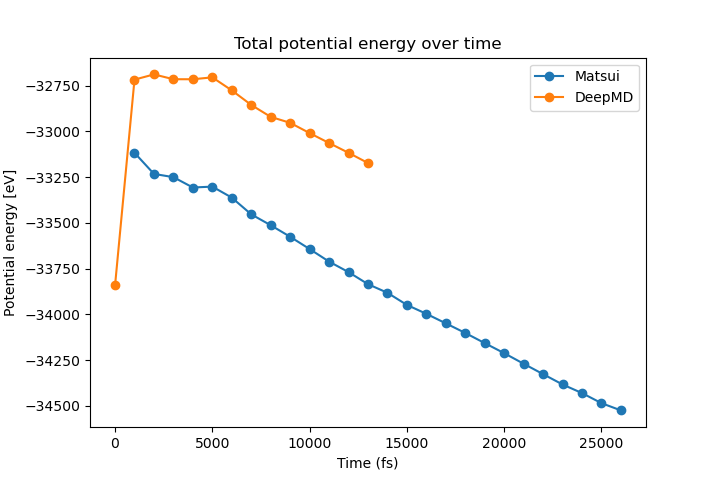
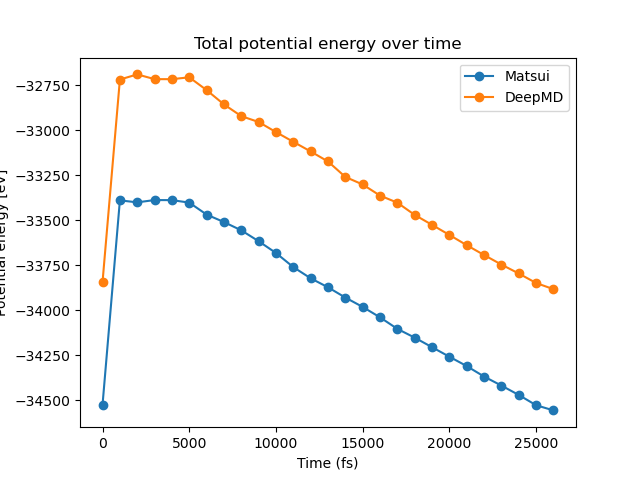
added average rdf and adf functions

diff --git a/src/python/structure_analysis.py b/src/python/structure_analysis.py
@@ -5,7 +5,7 @@ import convert_units as cu
 
 def get_data(filename: str, skip_r=9):
     data = pd.read_table(filename, on_bad_lines="skip", comment="I", skiprows=skip_r, delimiter=" ",
-                         names=["atom_nr", "type", "q", "x", "y", "z"]).dropna()  # .reset_index(drop=True)
+                         names=["atom_nr", "type", "x", "y", "z"]).dropna()  # .reset_index(drop=True)
     x = np.asarray(data["x"])
     y = np.asarray(data["y"])
     z = np.asarray(data["z"])
@@ -455,7 +455,7 @@ def calc_angle(index_matrix, dr):
     return angle
 
 
-def calc_rdf(dr, name_array, bz=1, max_r=7):
+def calc_rdf(dr, name_array, bz=0.05, max_r=7):
     boxX = boxY = boxZ = 31.82
     n = int((max_r+bz)//bz)+1
     alal = np.zeros(n)
@@ -544,28 +544,128 @@ def get_angles(dr, name_array, cutoffs, bz=1):
 
     return alalal, aloal, oalo, ooo, angle_ticks
 
+def calc_avg_adf(trajectory, filename):
+    dr, name_array = get_data(trajectory)
+    cutoffs = [4, 2.5, 3.4]
+    bz = 1
+    n = int(180//bz)+1
+    frames = dr.shape[1]
+
+    #initialize arrays
+    alalal_count = np.zeros(n)
+    aloal_count = np.zeros(n)
+    oalo_count = np.zeros(n)
+    ooo_count = np.zeros(n)
+    alalal = np.zeros(n)
+    aloal= np.zeros(n)
+    oalo = np.zeros(n)
+    ooo = np.zeros(n)
+
+    for frame in range(frames):
+        alalal_f, aloal_f, oalo_f, ooo_f, angle_ticks = get_angles(dr[:, frame], name_array[:, frame], cutoffs, bz=5)
+
+        alalal += alalal_f
+        aloal += aloal_f
+        oalo += oalo_f
+        ooo += ooo_f
+
+        alalal_count[alalal_f != 0] += 1
+        aloal_count[aloal_f != 0] += 1
+        oalo_count[oalo_f != 0] += 1
+        ooo_count[ooo_f != 0] += 1
+
+    alalal[alalal_count != 0] = alalal[alalal_count != 0]/alalal_count[alalal_count!=0] #Average rdf
+    aloal[aloal_count != 0] = aloal[aloal_count != 0]/aloal_count[aloal_count!=0] #Average rdf
+    oalo[oalo_count != 0] = oalo[oalo_count != 0]/oalo_count[oalo_count!=0] #Average rdf
+    ooo[ooo_count != 0] = ooo[ooo_count != 0]/ooo_count[ooo_count!=0] #Average rdf
+
+    np.savetxt(fname="alalal_avg_adf_" + filename, X=np.concatenate((angle_ticks, alalal), axis=0))
+    np.savetxt(fname="aloal_avg_adf_" + filename, X=np.concatenate((angle_ticks, aloal)), axis=0)
+    np.savetxt(fname="oalo_avg_adf_" + filename, X=np.concatenate((angle_ticks, oalo)), axis=0)
+    np.savetxt(fname="ooo_avg_adf_" + filename, X=np.concatenate((angle_ticks, ooo)), axis=0)
+
+
+
+
+
+def calc_avg_rdf(filename, file_dest):
+    max_r = 7
+    bz = 0.05
+
+    dr, name_array = get_data(filename)
+    n_frames = dr.shape[1]
+    n = int((max_r + bz) // bz) + 1
+
+    #Initialize arrays
+    alal_count = np.zeros(n)
+    alo_count = np.zeros(n)
+    oo_count = np.zeros(n)
+    alal = np.zeros(n)
+    alo = np.zeros(n)
+    oo = np.zeros(n)
+
+    for frame in range(n_frames):
+        alal_f, alo_f, oo_f, r_ticks = calc_rdf(dr[:, frame], name_array[:, frame], bz=bz, max_r=max_r)
+
+        alal += alal_f
+        alo += alo_f
+        oo += oo_f
+
+        alal_count[alal_f != 0] += 1
+        alo_count[alo_f != 0] += 1
+        oo_count[oo_f != 0] += 1
+
+    alal[alal_count != 0] = alal[alal_count != 0]/alal_count[alal_count!=0] #Average rdf
+    alo[alo_count != 0] = alo[alo_count != 0]/alo_count[alo_count!=0] #Average rdf
+    oo[oo_count != 0] = oo[oo_count != 0]/oo_count[oo_count!=0] #Average rdf
+
+    np.savetxt(fname="alal_avg_rdf_"+file_dest, X=np.concatenate((r_ticks, alal), axis=0))
+    np.savetxt(fname="alo_avg_rdf_"+file_dest, X=np.concatenate((r_ticks, alo), axis=0))
+    np.savetxt(fname="oo_avg_rdf_"+file_dest, X=np.concatenate((r_ticks, oo), axis=0))
+
+
+print("Calculating high T Matsui rdf...")
+calc_avg_rdf(filename="../lammps/output/a_al2o3_1_highT.lammpstrj", file_dest="highT_Matsui.txt")
+print("Calculating low T Matsui rdf...")
+calc_avg_rdf(filename="../lammps/output/a_al2o3_1_lowT.lammpstrj", file_dest="lowT_Matsui.txt")
+print("Calculating high T DeepMD rdf...")
+calc_avg_rdf(filename="../lammps/output/nn_pot/a_al2o3_highT.lammpstrj", file_dest="highT_DeepMD.txt")
+print("Calculating low T DeepMD rdf...")
+calc_avg_rdf(filename="../lammps/output/nn_pot/a_al2o3_lowT.lammpstrj", file_dest="lowT_DeepMD.txt")
+
+print("Calculating high T Matsui adf...")
+calc_avg_adf(trajectory="../lammps/output/a_al2o3_1_highT.lammpstrj", filename="highT_Matsui.txt")
+print("Calculating low T Matsui adf...")
+calc_avg_adf(trajectory="../lammps/output/a_al2o3_1_lowT.lammpstrj", filename="lowT_Matsui.txt")
+print("Calculating high T DeepMD adf...")
+calc_avg_adf(trajectory="../lammps/output/nn_pot/a_al2o3_highT.lammpstrj", filename="highT_DeepMD.txt")
+print("Calculating low T DeepMD adf...")
+calc_avg_adf(trajectory="../lammps/output/nn_pot/a_al2o3_lowT.lammpstrj", filename="lowT_DeepMD.txt")
+
+
+
 def test_rdf():
-    dr, name_array = get_dump("C:\\Users\\kajah\\git_repo\\mlpot-proj\\src\\lammps_script\\a_al2o3_dump\\a_al2o3_1.dump")
+    dr, name_array = get_dump("C:\\Users\\kajah\\git_repo\\mlpot-proj\\src\\a_al2o3_1_pe_comparison.dump")
     #dr, name_array = get_dump("C:\\Users\\kajah\\git_repo\\mlpot-proj\\src\\a_al2o3_1_dplowT.dump")
 
     frame = -1
 
-    alal, alo, oo, r_ticks = calc_rdf(dr[:, frame], name_array[:, frame], bz=0.05)
+    alal, alo, oo, r_ticks = calc_rdf(dr[:, frame], name_array[:, frame], bz=0.05, max_r=11)
 
     plt.figure()
-    plt.title("bond distribution- starting structure, AlAl")
+    plt.title("rdf, last frame, AlAl")
     plt.plot(r_ticks, alal, "-")
     plt.xlabel("r [Å]")
     plt.show()
 
     plt.figure()
-    plt.title("bond distribtuion- starting structure, AlO")
+    plt.title("rdf, last frame,  AlO")
     plt.plot(r_ticks, alo, "-")
     plt.xlabel("r [Å]")
     plt.show()
 
     plt.figure()
-    plt.title("bond distribution- starting structure, OO")
+    plt.title("rdf, last frame, OO")
     plt.plot(r_ticks, oo, "-")
     plt.xlabel("r [Å]")
     plt.show()
@@ -600,13 +700,15 @@ def test_start_struct():
 
 def get_pot():
     dr_dp, name_array_dp, f_dp, e_dp = get_dump("C:\\Users\\kajah\\git_repo\\mlpot-proj\\src\\a_al2o3_1_dp.dump", return_all=True) #deepmd sim (not finished)
-    dr, name_array, f, e = get_dump("C:\\Users\\kajah\\git_repo\\mlpot-proj\\src\\lammps_script\\a_al2o3_dump\\a_al2o3_1.dump", return_all=True)
+    #dr, name_array, f, e = get_dump("C:\\Users\\kajah\\git_repo\\mlpot-proj\\src\\lammps_script\\a_al2o3_dump\\a_al2o3_1.dump", return_all=True)
+    dr, name_array, f, e = get_dump("C:\\Users\\kajah\\git_repo\\mlpot-proj\\src\\a_al2o3_1_pe_comparison.dump", return_all=True) #deepmd sim (not finished)
+
 
     tot_pe_dp = np.sum(e_dp, axis=0)
     tot_pe = cu.kcal_mol_to_eV(np.sum(e, axis=0))
     print("Deepmd: ", tot_pe_dp[1])
-    print("Matsui: ", tot_pe[0])
-    t_matsui = np.arange(1, len(tot_pe)+1, 1)*1000 #femto
+    print("Matsui: ", tot_pe[1])
+    t_matsui = np.arange(0, len(tot_pe), 1)*1000 #femto
     t_dp = np.arange(0, len(tot_pe_dp), 1)*1000
 
     plt.figure()
@@ -618,16 +720,16 @@ def get_pot():
     plt.legend()
     plt.show()
 
-    error = (1-tot_pe_dp[1:]/tot_pe[:len(tot_pe_dp)-1])*100
+    error = (1-tot_pe_dp/tot_pe[:len(tot_pe_dp)])*100
     plt.figure()
     plt.title("Error over time")
-    plt.plot(t_dp[1:], error, "-o")
+    plt.plot(t_dp, error, "-o")
     plt.ylabel("Deviation [%]")
     plt.xlabel("Time [fs]")
     plt.show()
 
 
-get_pot()
+#get_pot()
 
 
 
@@ -640,7 +742,7 @@ def test_angles2():
     #dr100, name_array100 = get_dump(f100)
     #dr10, name_array10 = get_dump(f10)
     #dr200, name_array200 = get_dump(f200)
-    dr, name_array = get_dump("C:\\Users\\kajah\\git_repo\\mlpot-proj\\src\\a_al2o3_1_dp2.dump")
+    dr, name_array = get_dump("C:\\Users\\kajah\\git_repo\\mlpot-proj\\src\\a_al2o3_1_dp.dump")
     cutoffs = [4, 2.5, 3.4]
     frame = -1
 
@@ -695,7 +797,7 @@ def test_angles2():
     #plt.show()
     """
 
-test_rdf()
+
 #test_angles2()
 
 def test_angles():

diff --git a/src/python/plotting_utils.py b/src/python/plotting_utils.py
@@ -1,0 +1,35 @@
+import numpy as np
+import matplotlib.pyplot as plt
+import structure_analysis as sa
+
+def data_to_file(x, y, dest):
+    data = np.concatenate((x, y), axis=0)
+    np.savetxt(fname=dest, X=data)
+
+def read_data(fname):
+    data = np.loadtxt(fname)
+    x = data[:, 0]
+    y = data[:, 1]
+
+    return x, y
+
+def plot_rdf_comparisons(f1, f2, f3, f4): #filenames
+
+    lowT_Matsui, r = read_data(f1)
+    highT_Matsui, r = read_data(f2)
+    lowT_DeepMD, r = read_data(f3)
+    highT_DeepMD, r = read_data(f4)
+
+    plt.figure()
+    plt.title("Avg rdf over 20 ps, T=2345K")
+    plt.plot(r, highT_Matsui, label="Matsui")
+    plt.plot(r, highT_DeepMD, label="DeepMD")
+    plt.show()
+
+    plt.figure()
+    plt.title("Avg rdf over 20ps, T=300K")
+    plt.plot(r, lowT_Matsui, label="Matsui")
+    plt.plot(r, lowT_DeepMD, label="DeepMD")
+    plt.show()
+
+    return 0
